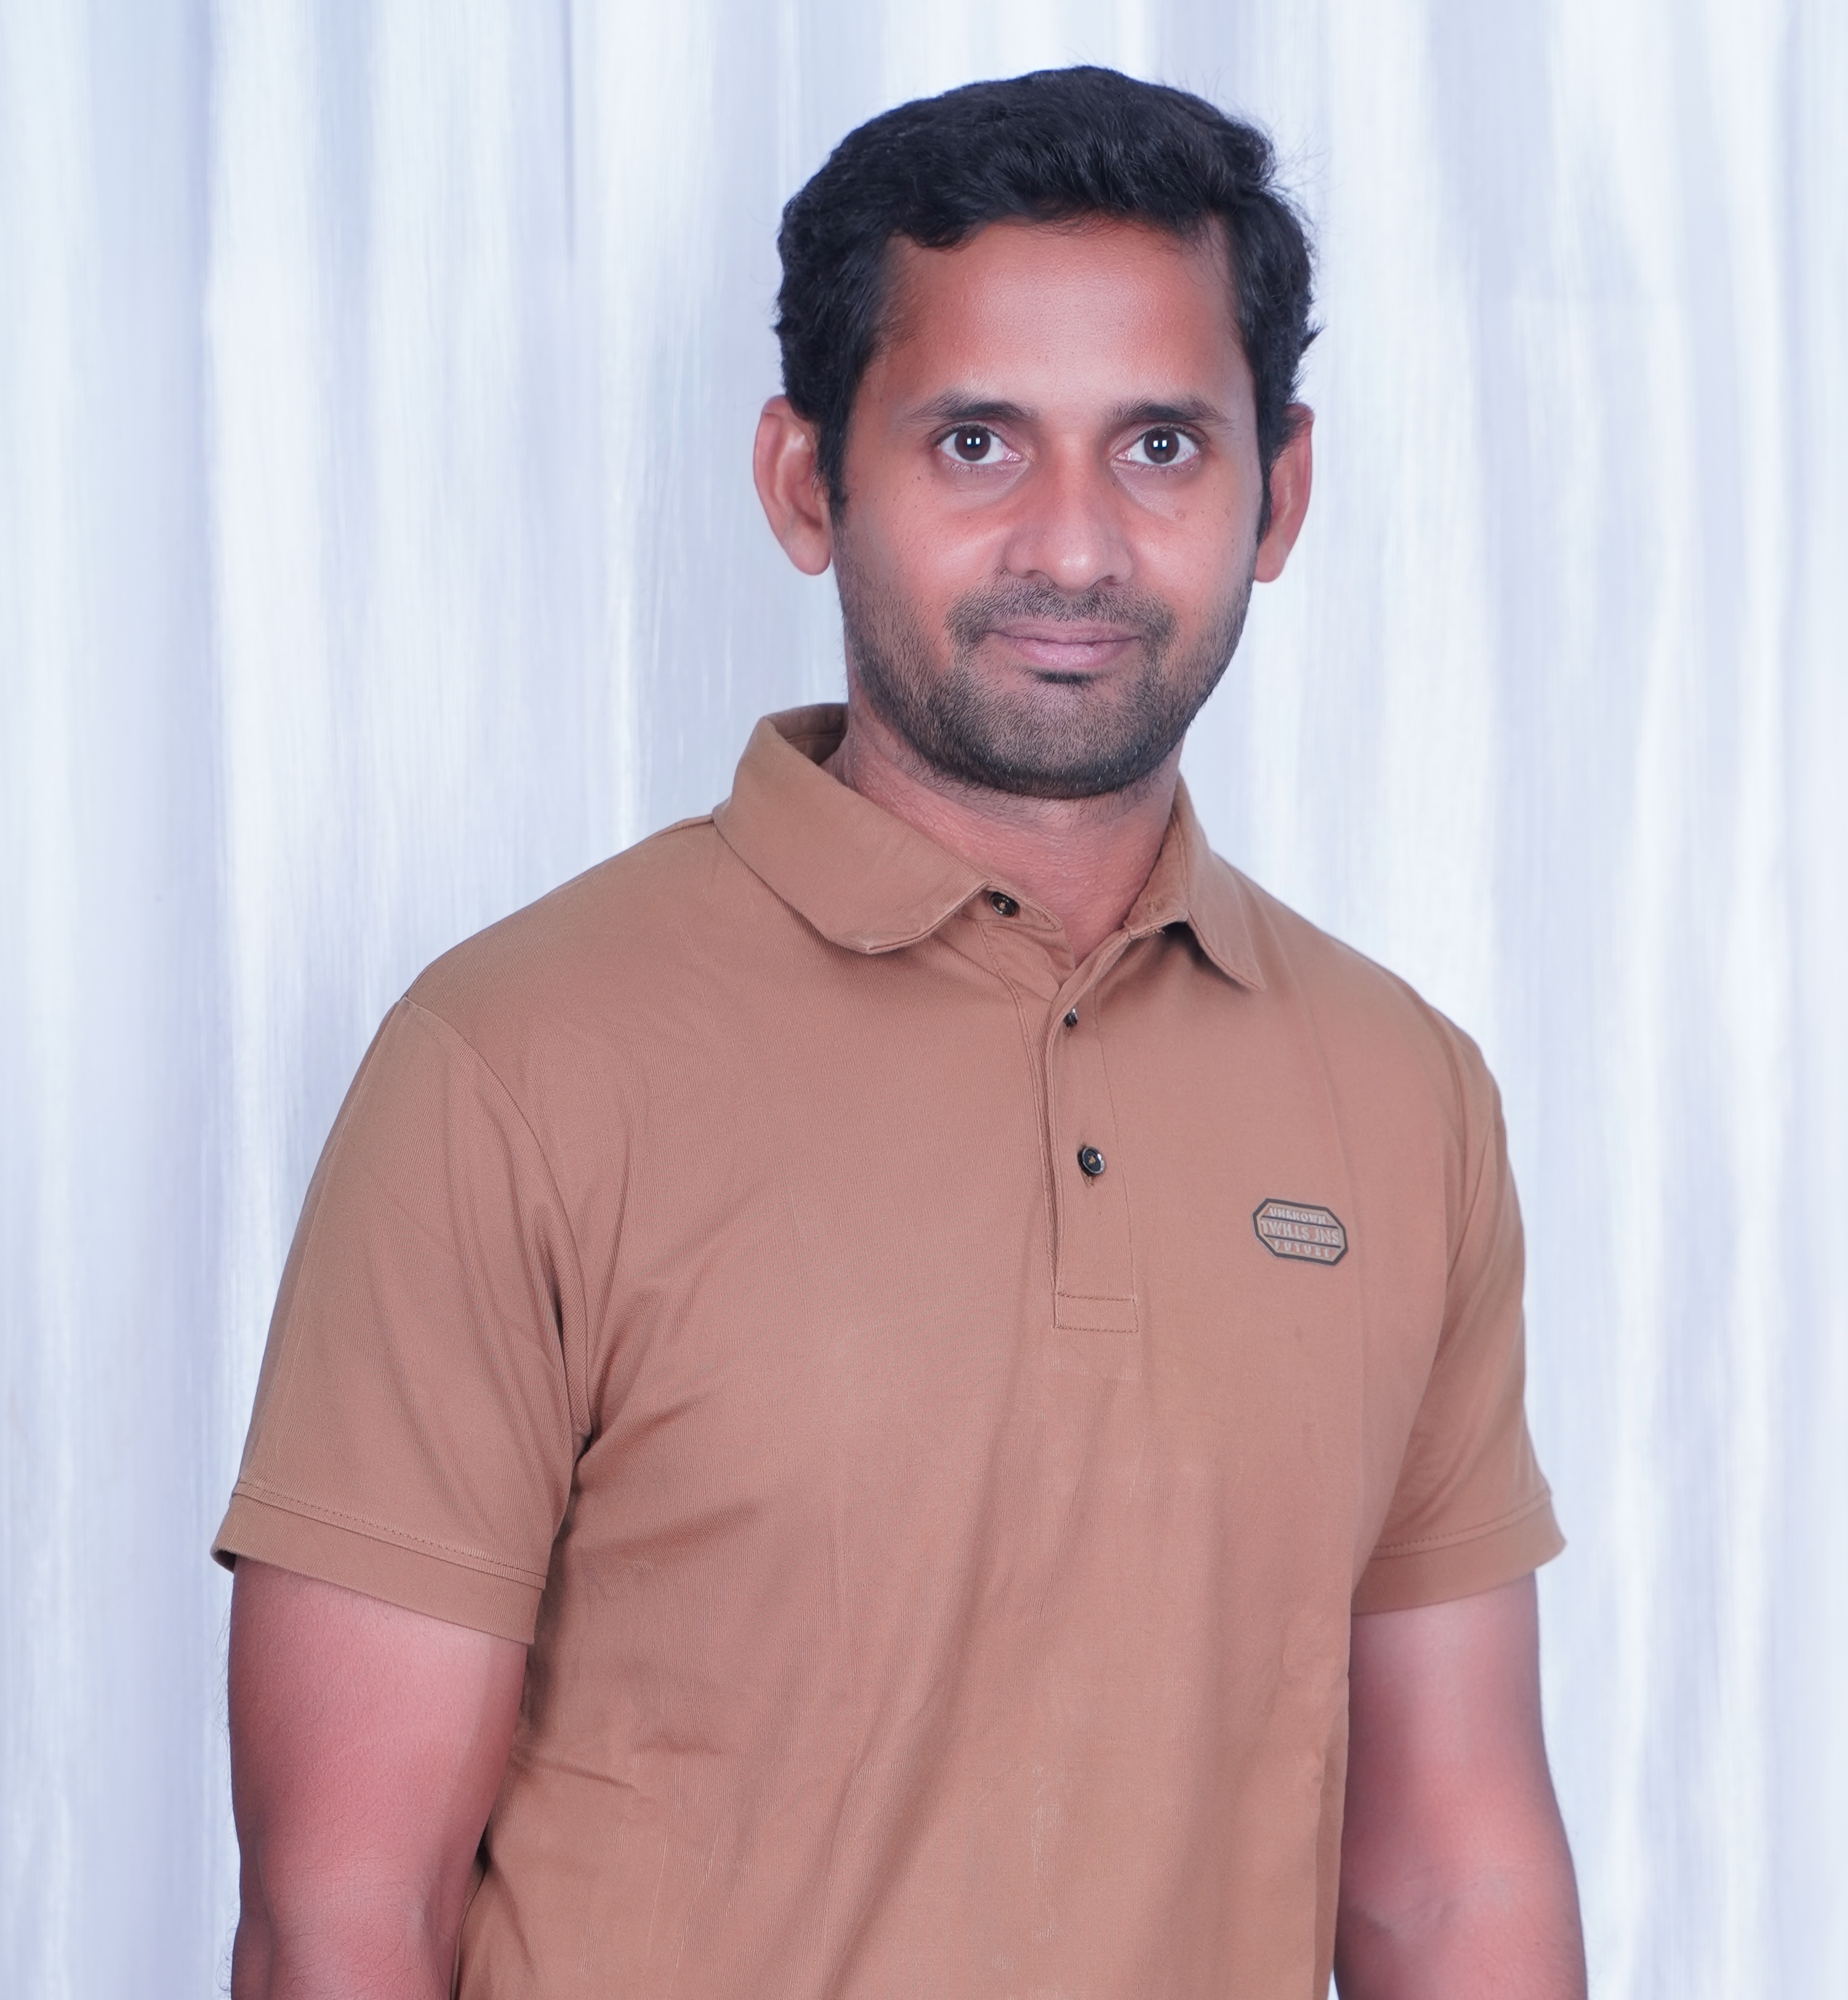
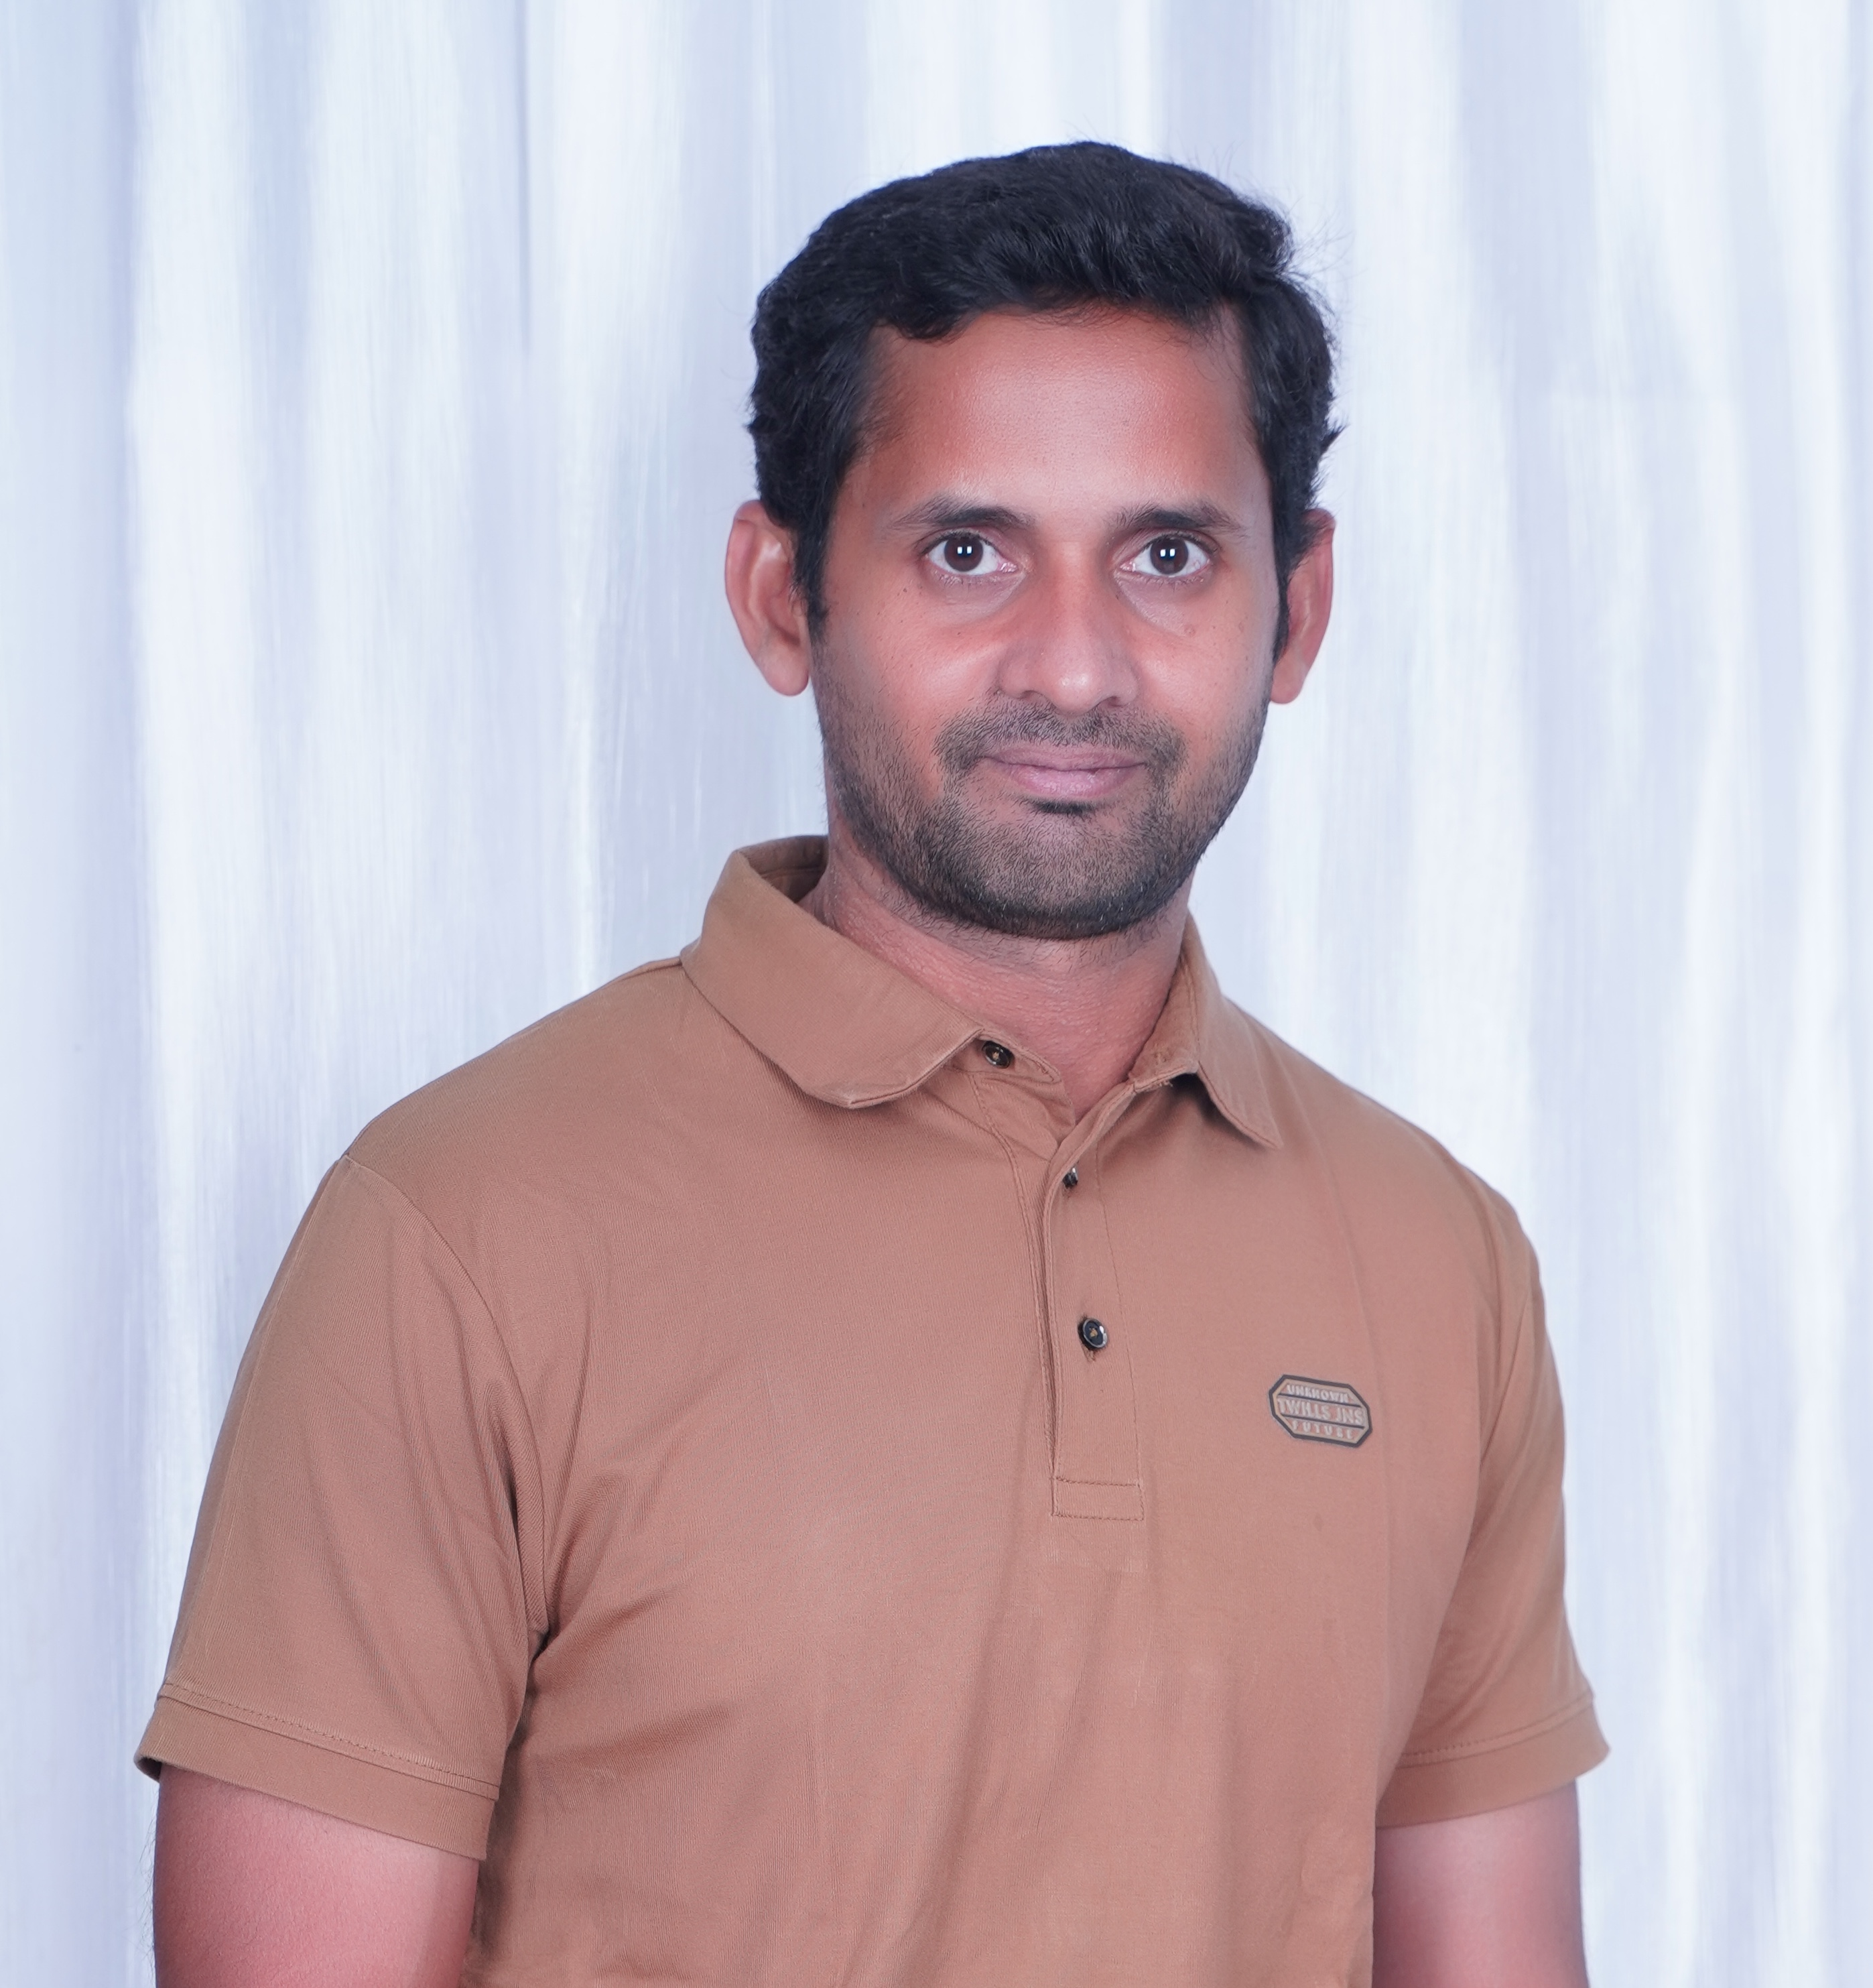
Updated photos

diff --git a/biodata/santosh/data.js b/biodata/santosh/data.js
@@ -45,7 +45,7 @@ const DATA = {
     { "caption": "3-May-2026 · Hyderabad", "src": "images/image9.jpg",  "alt": "Hyderabad, May 2026" },
     { "caption": "3-May-2026 · Hyderabad", "src": "images/image10.jpg", "alt": "Hyderabad, May 2026" },
     { "caption": "8-Apr-2025 · Kanya Kumari", "src": "images/image31.jpg", "alt": "Kanya Kumari, Apr 2025" },
-    { "caption": "5-Jan-2025 · Nagarjuna Sagar", "src": "images/image32.jpg", "alt": "Nagarjuna Sagar, Jan 2025" },
+    // { "caption": "5-Jan-2025 · Nagarjuna Sagar", "src": "images/image32.jpg", "alt": "Nagarjuna Sagar, Jan 2025" },
     { "caption": "9-Apr-2025 · Kovalam, Kerala", "src": "images/image33.jpg", "alt": "Kovalam, Kerala, Apr 2025" },
     { "caption": "15-May-2025 · Vijayawada", "src": "images/image34.jpg", "alt": "Vijayawada, May 2025" },
     { "caption": "15-May-2025 · Vijayawada", "src": "images/image35.jpg", "alt": "Vijayawada, May 2025" }